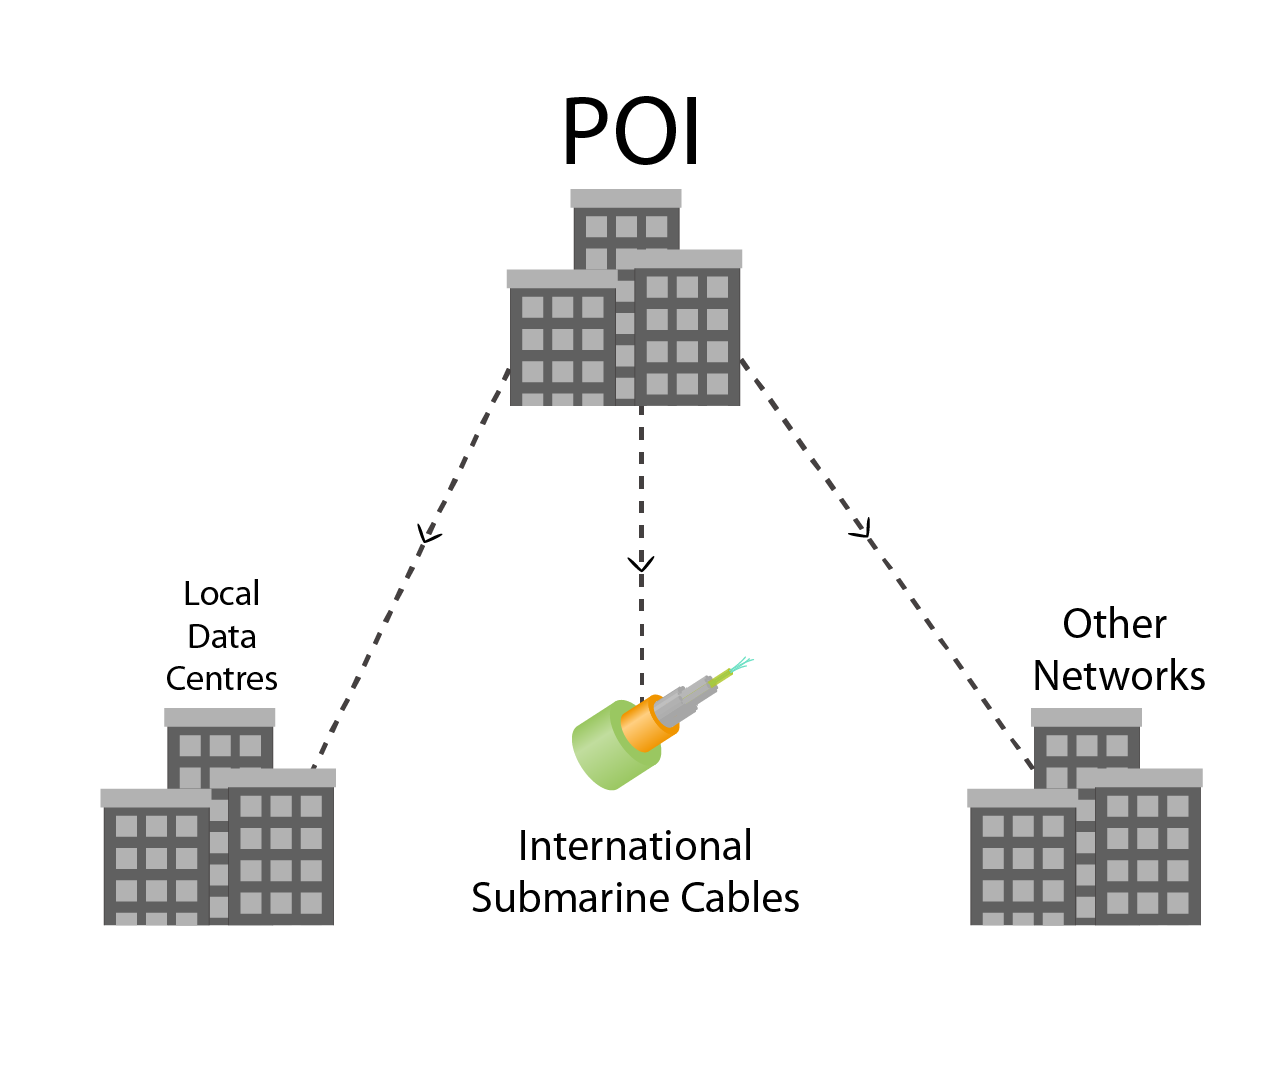
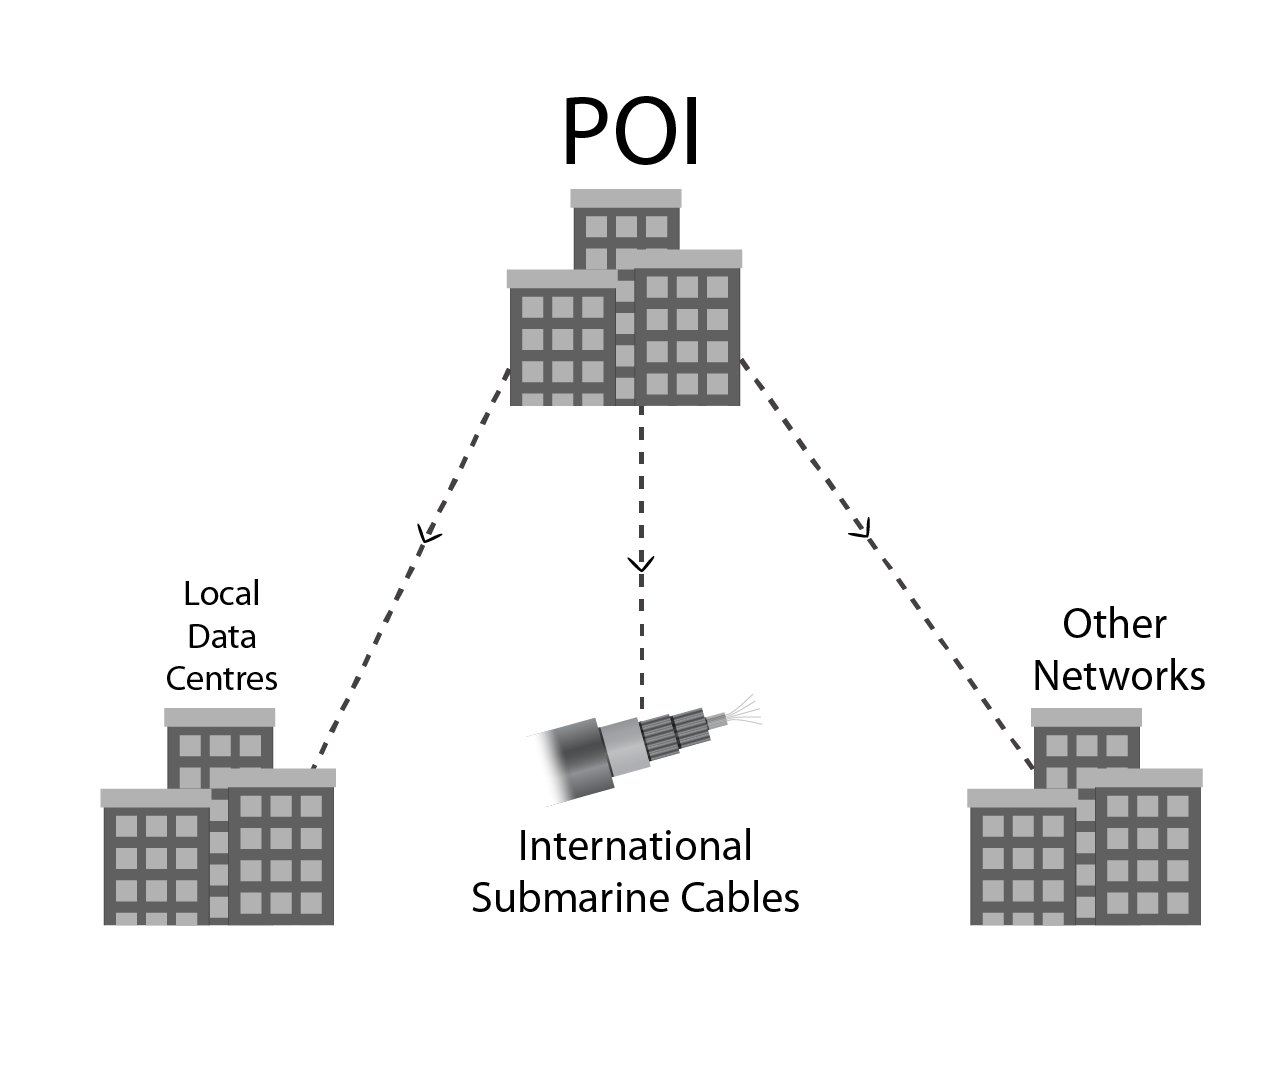
Adding my existing site.

Changed region(s): [[0.4059, 0.6105, 0.5933, 0.7632]]

diff --git a/cable.html b/cable.html
@@ -22,7 +22,7 @@
     <div class="collapse navbar-collapse" id="navbarCollapse">
       <ul class="navbar-nav mr-auto">
         <li class="nav-item">
-          <a class="nav-link active" href="index.html">Introduction</a>
+          <a class="nav-link" href="index.html">Introduction</a>
         </li>
         <li class="nav-item">
           <a class="nav-link" href="device.html">Devices</a>
@@ -40,35 +40,34 @@
           <a class="nav-link" href="isp.html">ISPs</a>
         </li>
         <li class="nav-item">
-          <a class="nav-link" href="cable.html">Submarine Cables</a>
+          <a class="nav-link active" href="cable.html">Submarine Cables</a>
         </li>
       </ul>
     </div>
   </nav>
-
   <main role="main">
     <div class="container mx-auto">
+
       <div class="row min-vh-100">
-        <span id="intro"></span>
-        <div class="col-12 my-auto">
-          <h2 class="text-center">Internet Infrastructure in Wellington</h2>
-          <br />
-          <p class="text-justify">We are living in a new technological age where you can get all the information you wanted (and did not want) in a click of a mouse or tap of the screen. But have you ever thought about the physical manifestation and
-            infrastructures required for you to send the inquiry and receiving the information back from all over the world? This website is a simplified exploration of the physical manifestation and infrastructures from the point of view of a
-            typical household in the context of Wellington and New Zealand.</p>
+        <span id="cables"></span>
+        <div class="col-8 my-auto"><img src="img/cables.png" class="img-fluid" alt="Submarine Cables"></div>
+        <div class="col-4 my-auto">
+          <h4 class="text-left">International Submarine Communications Cables</h4>
+          <p class="text-justify">The POI then redirects the data and request out to either other data centres located locally in Wellington and New Zealand, to other local networks, or through the international submarine communications cables that
+            is connects Wellington and New Zealand to the rest of the world.</p>
+          <p>There are currently 3 main International Submarine Communications Cables connecting New Zealand to the rest of the world:</p>
+          <ul>
+            <li>Hawaiki Cable</li>
+            <li>Southern Cross Cable</li>
+            <li>Tasman Global Access (TGA) Cable</li>
+          </ul>
           <br />
           <small>
-            <p>Information gathered from the following:</p>
-            <ul>
-              <li><a href="https://www.chorus.co.nz/our-network" class="badge badge-light" target="_blank">Our network | Chorus</a></li>
-              <li><a href="https://www.chorus.co.nz/identifying-our-network" class="badge badge-light" target="_blank">Identifying our network | Chorus</a></li>
-              <li><a href="https://arstechnica.com/information-technology/2016/05/how-the-internet-works-submarine-cables-data-centres-last-mile/" class="badge badge-light" target="_blank">How the Internet works: Submarine fiber, brains in jars, and
-                  coaxial cables | Ars Technica</a></li>
-            </ul>
-            <p>Pages designed to be viewed in 1980 x 1080</p>
+            <p>Click <a href="https://www.submarinecablemap.com/" class="badge badge-light" target="_blank">here</a> for a view of the Submarine Cable Map by TeleGeography. </p>
           </small>
           <br />
-          <a class="btn btn-outline-secondary float-right" href="device.html" role="button">Next</a>
+          <a class="btn btn-outline-secondary float-left" href="isp.html" role="button">Internet Service Providers</a>
+          <a class="btn btn-outline-secondary float-right" href="index.html" role="button">Back to the start</a>
         </div>
       </div>
     </div>

diff --git a/building.html b/building.html
@@ -22,7 +22,7 @@
     <div class="collapse navbar-collapse" id="navbarCollapse">
       <ul class="navbar-nav mr-auto">
         <li class="nav-item">
-          <a class="nav-link active" href="index.html">Introduction</a>
+          <a class="nav-link" href="index.html">Introduction</a>
         </li>
         <li class="nav-item">
           <a class="nav-link" href="device.html">Devices</a>
@@ -31,7 +31,7 @@
           <a class="nav-link" href="gateway.html">Residential Gateway</a>
         </li>
         <li class="nav-item">
-          <a class="nav-link" href="building.html">Building Infrastructures</a>
+          <a class="nav-link active" href="building.html">Building Infrastructures</a>
         </li>
         <li class="nav-item">
           <a class="nav-link" href="public.html">Public Infrastructure</a>
@@ -48,29 +48,21 @@
 
   <main role="main">
     <div class="container mx-auto">
+
       <div class="row min-vh-100">
-        <span id="intro"></span>
-        <div class="col-12 my-auto">
-          <h2 class="text-center">Internet Infrastructure in Wellington</h2>
+        <span id="homefix"></span>
+        <div class="col-8 my-auto"><img src="img/homefix.png" class="img-fluid" alt="Fixed Line Point"></div>
+        <div class="col-4 my-auto">
+          <h4 class="text-left">Building Infrastructures</h4>
+          <p class="text-justify">The residential gateway device is then connected to the infrastructures that is in the building or home such as an Optical Network Terminal (ONT) for optical fibre cable connection or a Digital Subscriber Line (DSL)
+            wall socket for copper wire phone network connections. These infrastructures then terminates outside the building or home at an External Termination Point (ETP) which is then connected to internet infrastructures set up in public areas.</p>
           <br />
-          <p class="text-justify">We are living in a new technological age where you can get all the information you wanted (and did not want) in a click of a mouse or tap of the screen. But have you ever thought about the physical manifestation and
-            infrastructures required for you to send the inquiry and receiving the information back from all over the world? This website is a simplified exploration of the physical manifestation and infrastructures from the point of view of a
-            typical household in the context of Wellington and New Zealand.</p>
           <br />
-          <small>
-            <p>Information gathered from the following:</p>
-            <ul>
-              <li><a href="https://www.chorus.co.nz/our-network" class="badge badge-light" target="_blank">Our network | Chorus</a></li>
-              <li><a href="https://www.chorus.co.nz/identifying-our-network" class="badge badge-light" target="_blank">Identifying our network | Chorus</a></li>
-              <li><a href="https://arstechnica.com/information-technology/2016/05/how-the-internet-works-submarine-cables-data-centres-last-mile/" class="badge badge-light" target="_blank">How the Internet works: Submarine fiber, brains in jars, and
-                  coaxial cables | Ars Technica</a></li>
-            </ul>
-            <p>Pages designed to be viewed in 1980 x 1080</p>
-          </small>
-          <br />
-          <a class="btn btn-outline-secondary float-right" href="device.html" role="button">Next</a>
+          <a class="btn btn-outline-secondary float-left" href="gateway.html" role="button">Residential Gateway</a>
+          <a class="btn btn-outline-secondary float-right" href="public.html" role="button">Next</a>
         </div>
       </div>
+
     </div>
   </main>
 

diff --git a/public.html b/public.html
@@ -22,7 +22,7 @@
     <div class="collapse navbar-collapse" id="navbarCollapse">
       <ul class="navbar-nav mr-auto">
         <li class="nav-item">
-          <a class="nav-link active" href="index.html">Introduction</a>
+          <a class="nav-link" href="index.html">Introduction</a>
         </li>
         <li class="nav-item">
           <a class="nav-link" href="device.html">Devices</a>
@@ -34,7 +34,7 @@
           <a class="nav-link" href="building.html">Building Infrastructures</a>
         </li>
         <li class="nav-item">
-          <a class="nav-link" href="public.html">Public Infrastructure</a>
+          <a class="nav-link active" href="public.html">Public Infrastructure</a>
         </li>
         <li class="nav-item">
           <a class="nav-link" href="isp.html">ISPs</a>
@@ -48,29 +48,24 @@
 
   <main role="main">
     <div class="container mx-auto">
+
       <div class="row min-vh-100">
-        <span id="intro"></span>
-        <div class="col-12 my-auto">
-          <h2 class="text-center">Internet Infrastructure in Wellington</h2>
-          <br />
-          <p class="text-justify">We are living in a new technological age where you can get all the information you wanted (and did not want) in a click of a mouse or tap of the screen. But have you ever thought about the physical manifestation and
-            infrastructures required for you to send the inquiry and receiving the information back from all over the world? This website is a simplified exploration of the physical manifestation and infrastructures from the point of view of a
-            typical household in the context of Wellington and New Zealand.</p>
+        <span id="pubinfra"></span>
+        <div class="col-8 my-auto"><img src="img/pubinfra.png" class="img-fluid" alt="Public Infrastructure"></div>
+        <div class="col-4 my-auto">
+          <h4 class="text-left">Public Infrastructures</h4>
+          <p class="text-justify">Infrastructures such as cabinets, poles and underground wiring hidden underground connects the building and homes to the data centres setup by the local Internet Service Provider and fibre companies.</p>
           <br />
           <small>
-            <p>Information gathered from the following:</p>
-            <ul>
-              <li><a href="https://www.chorus.co.nz/our-network" class="badge badge-light" target="_blank">Our network | Chorus</a></li>
-              <li><a href="https://www.chorus.co.nz/identifying-our-network" class="badge badge-light" target="_blank">Identifying our network | Chorus</a></li>
-              <li><a href="https://arstechnica.com/information-technology/2016/05/how-the-internet-works-submarine-cables-data-centres-last-mile/" class="badge badge-light" target="_blank">How the Internet works: Submarine fiber, brains in jars, and
-                  coaxial cables | Ars Technica</a></li>
-            </ul>
-            <p>Pages designed to be viewed in 1980 x 1080</p>
+            <p>Click <a href="https://arstechnica.com/information-technology/2016/05/how-the-internet-works-submarine-cables-data-centres-last-mile/" class="badge badge-light" target="_blank">here</a> for a view of the map of cabinets owned by
+              Chorus. </p>
           </small>
           <br />
-          <a class="btn btn-outline-secondary float-right" href="device.html" role="button">Next</a>
+          <a class="btn btn-outline-secondary float-left" href="building.html" role="button">Building Infrastructures</a>
+          <a class="btn btn-outline-secondary float-right" href="isp.html" role="button">Next</a>
         </div>
       </div>
+
     </div>
   </main>
 

diff --git a/isp.html b/isp.html
@@ -22,7 +22,7 @@
     <div class="collapse navbar-collapse" id="navbarCollapse">
       <ul class="navbar-nav mr-auto">
         <li class="nav-item">
-          <a class="nav-link active" href="index.html">Introduction</a>
+          <a class="nav-link" href="index.html">Introduction</a>
         </li>
         <li class="nav-item">
           <a class="nav-link" href="device.html">Devices</a>
@@ -37,7 +37,7 @@
           <a class="nav-link" href="public.html">Public Infrastructure</a>
         </li>
         <li class="nav-item">
-          <a class="nav-link" href="isp.html">ISPs</a>
+          <a class="nav-link active" href="isp.html">ISPs</a>
         </li>
         <li class="nav-item">
           <a class="nav-link" href="cable.html">Submarine Cables</a>
@@ -48,29 +48,25 @@
 
   <main role="main">
     <div class="container mx-auto">
+
+
       <div class="row min-vh-100">
-        <span id="intro"></span>
-        <div class="col-12 my-auto">
-          <h2 class="text-center">Internet Infrastructure in Wellington</h2>
-          <br />
-          <p class="text-justify">We are living in a new technological age where you can get all the information you wanted (and did not want) in a click of a mouse or tap of the screen. But have you ever thought about the physical manifestation and
-            infrastructures required for you to send the inquiry and receiving the information back from all over the world? This website is a simplified exploration of the physical manifestation and infrastructures from the point of view of a
-            typical household in the context of Wellington and New Zealand.</p>
+        <span id="isp"></span>
+        <div class="col-8 my-auto"><img src="img/isp.png" class="img-fluid" alt="ISP"></div>
+        <div class="col-4 my-auto">
+          <h4 class="text-left">Internet Service Providers</h4>
+          <p class="text-justify">Internet Service Providers/ broadband providers have many regional data centres that filters the data and decides where it can get the information you need and send the request to a point of interconnect (POI).</p>
           <br />
           <small>
-            <p>Information gathered from the following:</p>
-            <ul>
-              <li><a href="https://www.chorus.co.nz/our-network" class="badge badge-light" target="_blank">Our network | Chorus</a></li>
-              <li><a href="https://www.chorus.co.nz/identifying-our-network" class="badge badge-light" target="_blank">Identifying our network | Chorus</a></li>
-              <li><a href="https://arstechnica.com/information-technology/2016/05/how-the-internet-works-submarine-cables-data-centres-last-mile/" class="badge badge-light" target="_blank">How the Internet works: Submarine fiber, brains in jars, and
-                  coaxial cables | Ars Technica</a></li>
-            </ul>
-            <p>Pages designed to be viewed in 1980 x 1080</p>
+            <p>Click <a href="https://www.google.com/maps/d/viewer?mid=1MDcmqmhRxKCGTYsG9xktBXQGHpI&ll=-41.305552850058604%2C174.80198671386722&z=13" class="badge badge-light" target="_blank">here</a> for a view of the map of data centres and
+              buildings for the Wellington Internet Exchange. </p>
           </small>
           <br />
-          <a class="btn btn-outline-secondary float-right" href="device.html" role="button">Next</a>
+          <a class="btn btn-outline-secondary float-left" href="public.html" role="button">Public Infrastructures</a>
+          <a class="btn btn-outline-secondary float-right" href="cable.html" role="button">Next</a>
         </div>
       </div>
+
     </div>
   </main>
 

diff --git a/gateway.html b/gateway.html
@@ -22,13 +22,13 @@
     <div class="collapse navbar-collapse" id="navbarCollapse">
       <ul class="navbar-nav mr-auto">
         <li class="nav-item">
-          <a class="nav-link active" href="index.html">Introduction</a>
+          <a class="nav-link" href="index.html">Introduction</a>
         </li>
         <li class="nav-item">
           <a class="nav-link" href="device.html">Devices</a>
         </li>
         <li class="nav-item">
-          <a class="nav-link" href="gateway.html">Residential Gateway</a>
+          <a class="nav-link active" href="gateway.html">Residential Gateway</a>
         </li>
         <li class="nav-item">
           <a class="nav-link" href="building.html">Building Infrastructures</a>
@@ -48,29 +48,22 @@
 
   <main role="main">
     <div class="container mx-auto">
+
       <div class="row min-vh-100">
-        <span id="intro"></span>
-        <div class="col-12 my-auto">
-          <h2 class="text-center">Internet Infrastructure in Wellington</h2>
+        <span id="resgate"></span>
+        <div class="col-8 my-auto"><img src="img/resgate.png" class="img-fluid" alt="Residential Gateway"></div>
+        <div class="col-4 my-auto">
+          <h4 class="text-left">Residential Gateway</h4>
+          <p class="text-justify">The ethernet cables and Wi-Fi terminates at the residential gateway, which can be devices such as a Network Switch or wireless router. This gateway allows multiple devices to be connected to the same network and the
+            same network infrastructures in the building.</p>
           <br />
-          <p class="text-justify">We are living in a new technological age where you can get all the information you wanted (and did not want) in a click of a mouse or tap of the screen. But have you ever thought about the physical manifestation and
-            infrastructures required for you to send the inquiry and receiving the information back from all over the world? This website is a simplified exploration of the physical manifestation and infrastructures from the point of view of a
-            typical household in the context of Wellington and New Zealand.</p>
           <br />
-          <small>
-            <p>Information gathered from the following:</p>
-            <ul>
-              <li><a href="https://www.chorus.co.nz/our-network" class="badge badge-light" target="_blank">Our network | Chorus</a></li>
-              <li><a href="https://www.chorus.co.nz/identifying-our-network" class="badge badge-light" target="_blank">Identifying our network | Chorus</a></li>
-              <li><a href="https://arstechnica.com/information-technology/2016/05/how-the-internet-works-submarine-cables-data-centres-last-mile/" class="badge badge-light" target="_blank">How the Internet works: Submarine fiber, brains in jars, and
-                  coaxial cables | Ars Technica</a></li>
-            </ul>
-            <p>Pages designed to be viewed in 1980 x 1080</p>
-          </small>
-          <br />
-          <a class="btn btn-outline-secondary float-right" href="device.html" role="button">Next</a>
+          <a class="btn btn-outline-secondary float-left" href="device.html" role="button">Devices</a>
+          <a class="btn btn-outline-secondary float-right" href="building.html" role="button">Next</a>
         </div>
       </div>
+
+
     </div>
   </main>
 

diff --git a/device.html b/device.html
@@ -22,10 +22,10 @@
     <div class="collapse navbar-collapse" id="navbarCollapse">
       <ul class="navbar-nav mr-auto">
         <li class="nav-item">
-          <a class="nav-link active" href="index.html">Introduction</a>
+          <a class="nav-link" href="index.html">Introduction</a>
         </li>
         <li class="nav-item">
-          <a class="nav-link" href="device.html">Devices</a>
+          <a class="nav-link active" href="device.html">Devices</a>
         </li>
         <li class="nav-item">
           <a class="nav-link" href="gateway.html">Residential Gateway</a>
@@ -48,27 +48,18 @@
 
   <main role="main">
     <div class="container mx-auto">
+
       <div class="row min-vh-100">
-        <span id="intro"></span>
-        <div class="col-12 my-auto">
-          <h2 class="text-center">Internet Infrastructure in Wellington</h2>
+        <span id="devices"></span>
+        <div class="col-8 my-auto"><img src="img/device.png" class="img-fluid" alt="Devices"></div>
+        <div class="col-4 my-auto">
+          <h4 class="text-left">Devices</h4>
+          <p class="text-justify">There are now many electronics and devices that features connectivity to the internet, such as personal computers, smartphones, and even security cameras. These devices are typically connected to the internet
+            physically using ethernet cables or they transit radio signals more commonly known as Wi-Fi.</p>
           <br />
-          <p class="text-justify">We are living in a new technological age where you can get all the information you wanted (and did not want) in a click of a mouse or tap of the screen. But have you ever thought about the physical manifestation and
-            infrastructures required for you to send the inquiry and receiving the information back from all over the world? This website is a simplified exploration of the physical manifestation and infrastructures from the point of view of a
-            typical household in the context of Wellington and New Zealand.</p>
           <br />
-          <small>
-            <p>Information gathered from the following:</p>
-            <ul>
-              <li><a href="https://www.chorus.co.nz/our-network" class="badge badge-light" target="_blank">Our network | Chorus</a></li>
-              <li><a href="https://www.chorus.co.nz/identifying-our-network" class="badge badge-light" target="_blank">Identifying our network | Chorus</a></li>
-              <li><a href="https://arstechnica.com/information-technology/2016/05/how-the-internet-works-submarine-cables-data-centres-last-mile/" class="badge badge-light" target="_blank">How the Internet works: Submarine fiber, brains in jars, and
-                  coaxial cables | Ars Technica</a></li>
-            </ul>
-            <p>Pages designed to be viewed in 1980 x 1080</p>
-          </small>
-          <br />
-          <a class="btn btn-outline-secondary float-right" href="device.html" role="button">Next</a>
+          <a class="btn btn-outline-secondary float-left" href="index.html" role="button">Introduction</a>
+          <a class="btn btn-outline-secondary float-right" href="gateway.html" role="button">Next</a>
         </div>
       </div>
     </div>

diff --git a/css/style.css b/css/style.css
@@ -1,14 +1,3 @@
 html, body {
 	overflow:hidden;
-} 
-
-div {
-    overflow: hidden;
-    position: relative;
-}
-
-div span {
-    position: absolute;
-    top: -2rem;
-    visibility: hidden;
 }

diff --git a/README.md b/README.md
@@ -1,2 +1,2 @@
-# zedMDDN201spa
-Zed Ng's MDDN201 SPA 1
+# zedMDDN201project1
+Zed Ng's MDDN201 Project 1
